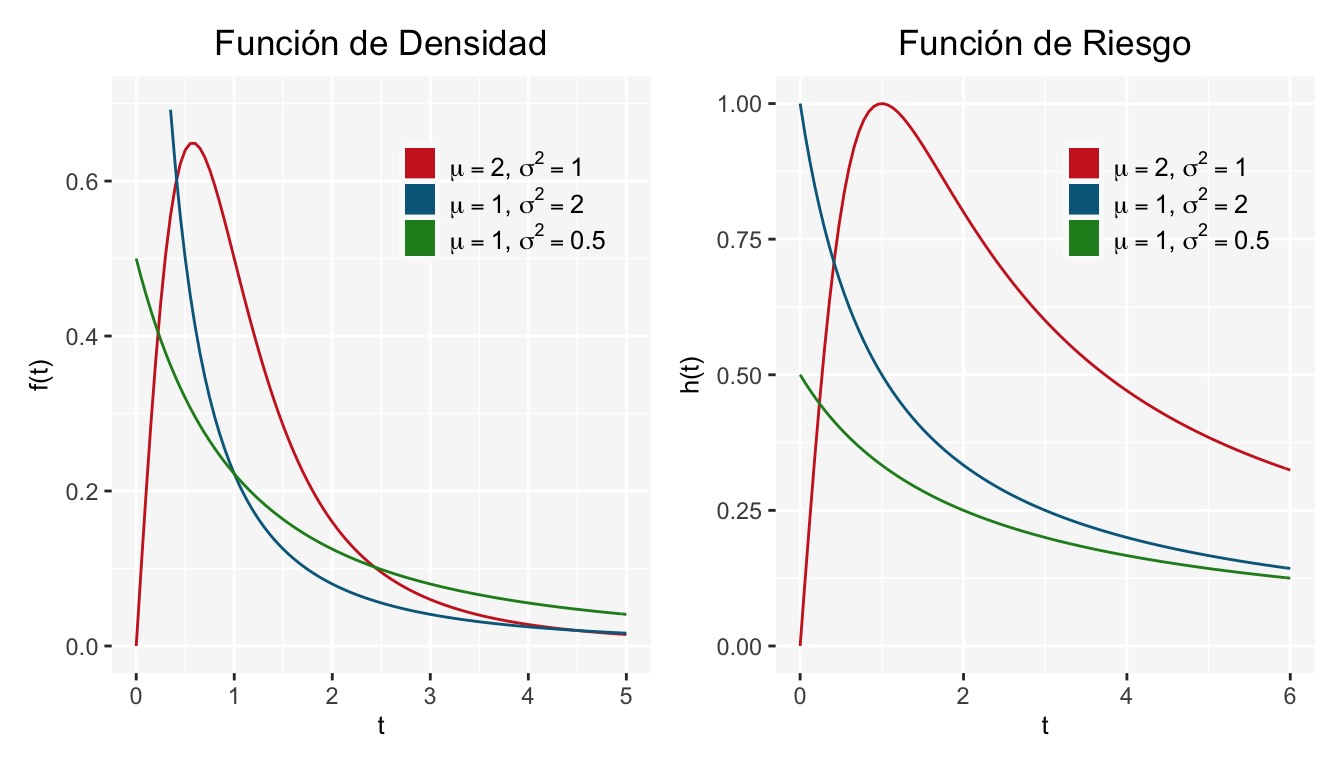
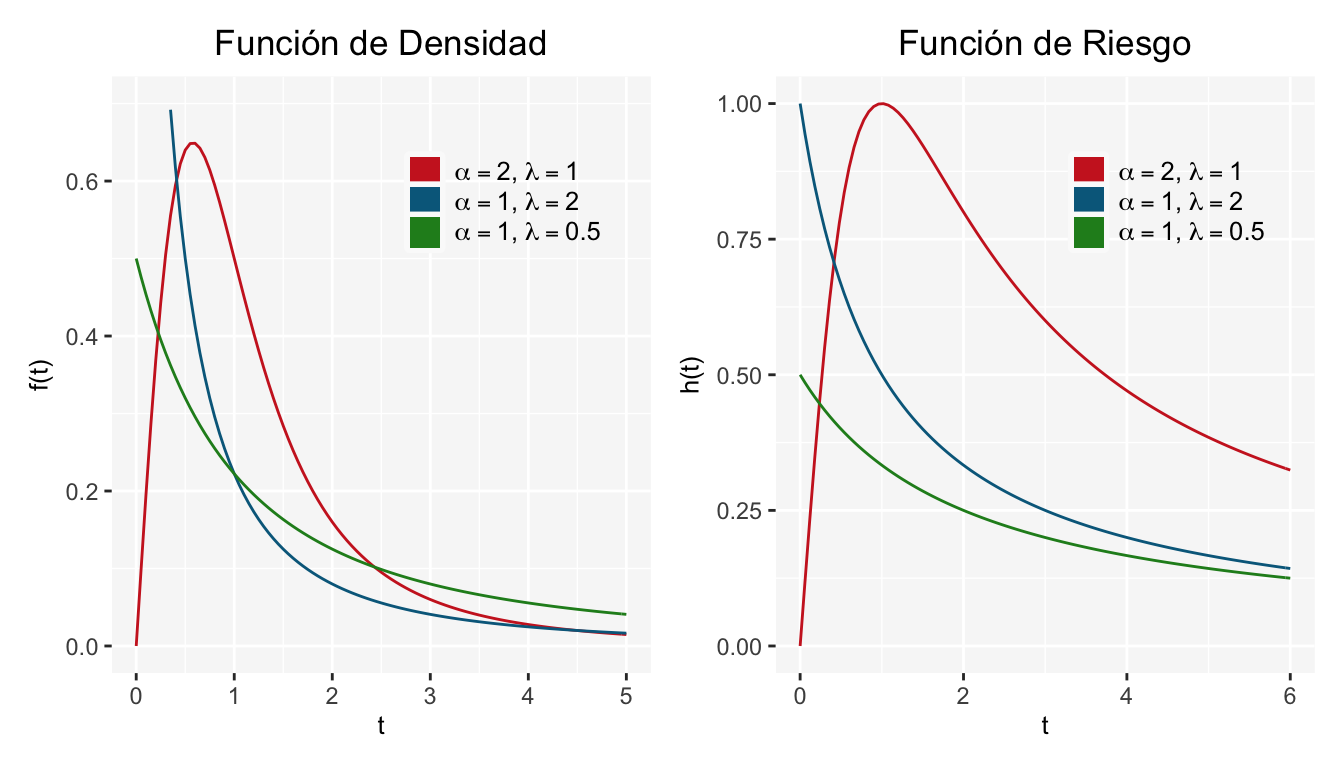
Modificación a gráficas del capítulo 5
Se corrigieron símbolos de las gráficas correspondientes a la distribución log-logístico del capítulo 5

Changed region(s): [[0.7812, 0.1875, 0.9375, 0.3438], [0.2812, 0.1875, 0.4688, 0.3438]]

diff --git a/docs/index.html b/docs/index.html
@@ -309,7 +309,7 @@ loaded via a namespace (and not attached):
  collate  en_US.UTF-8                 
  ctype    en_US.UTF-8                 
  tz       America/Mexico_City         
- date     2020-10-14                  </code></pre>
+ date     2020-10-15                  </code></pre>
 </div>
 <div id="licencia" class="section level3 unnumbered">
 <h3>Licencia</h3>
